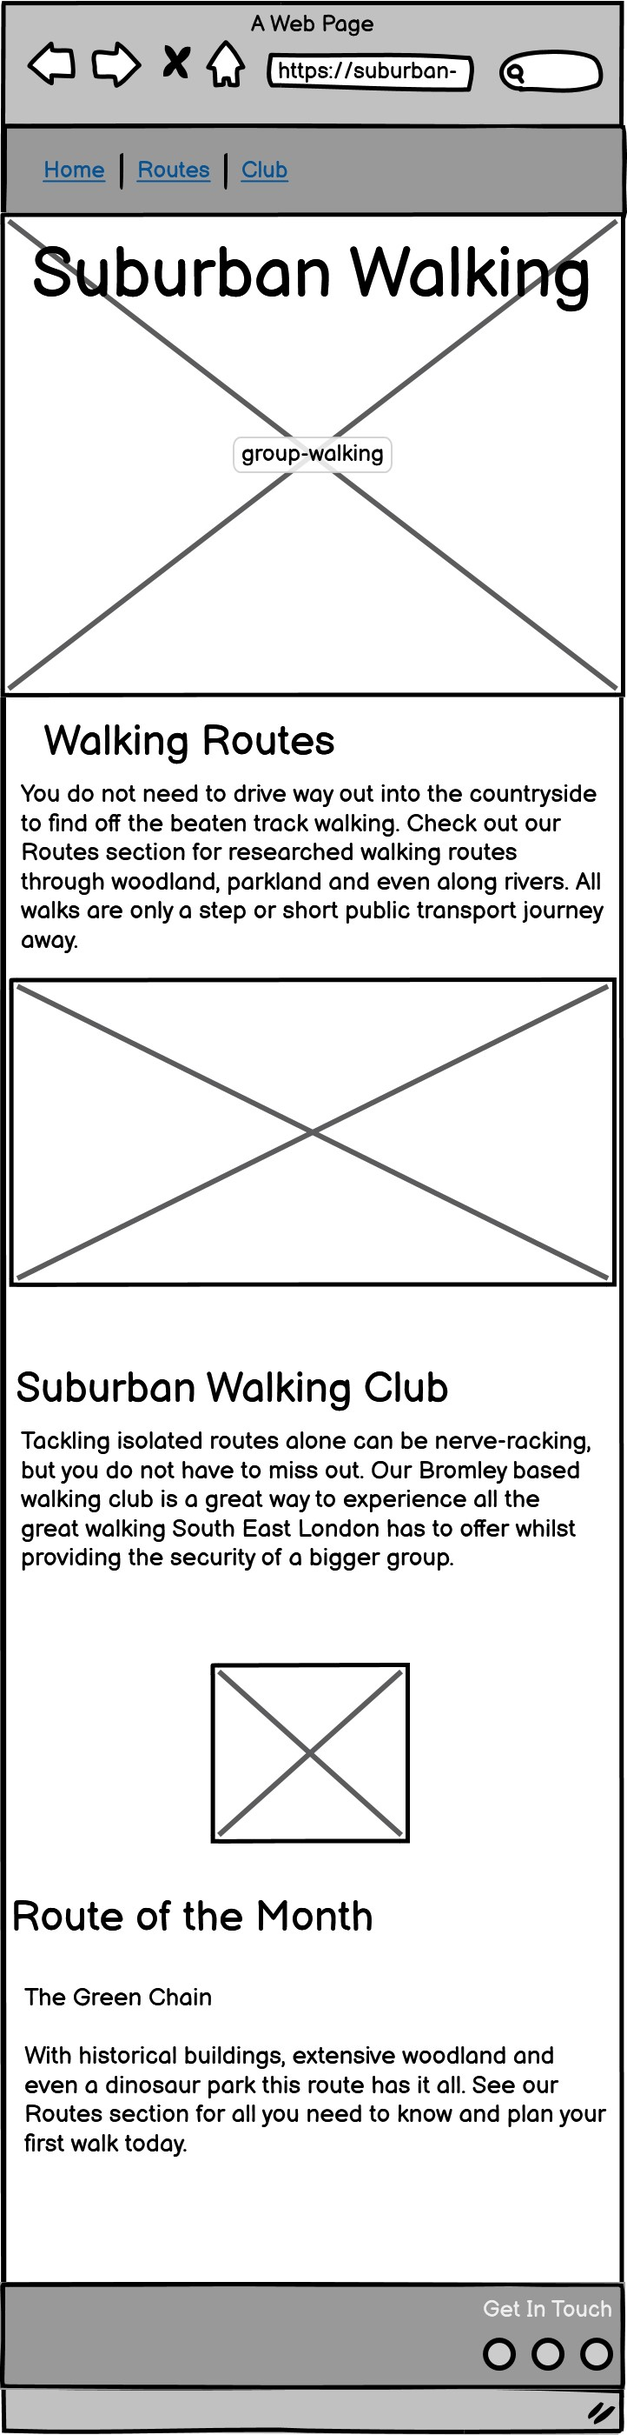
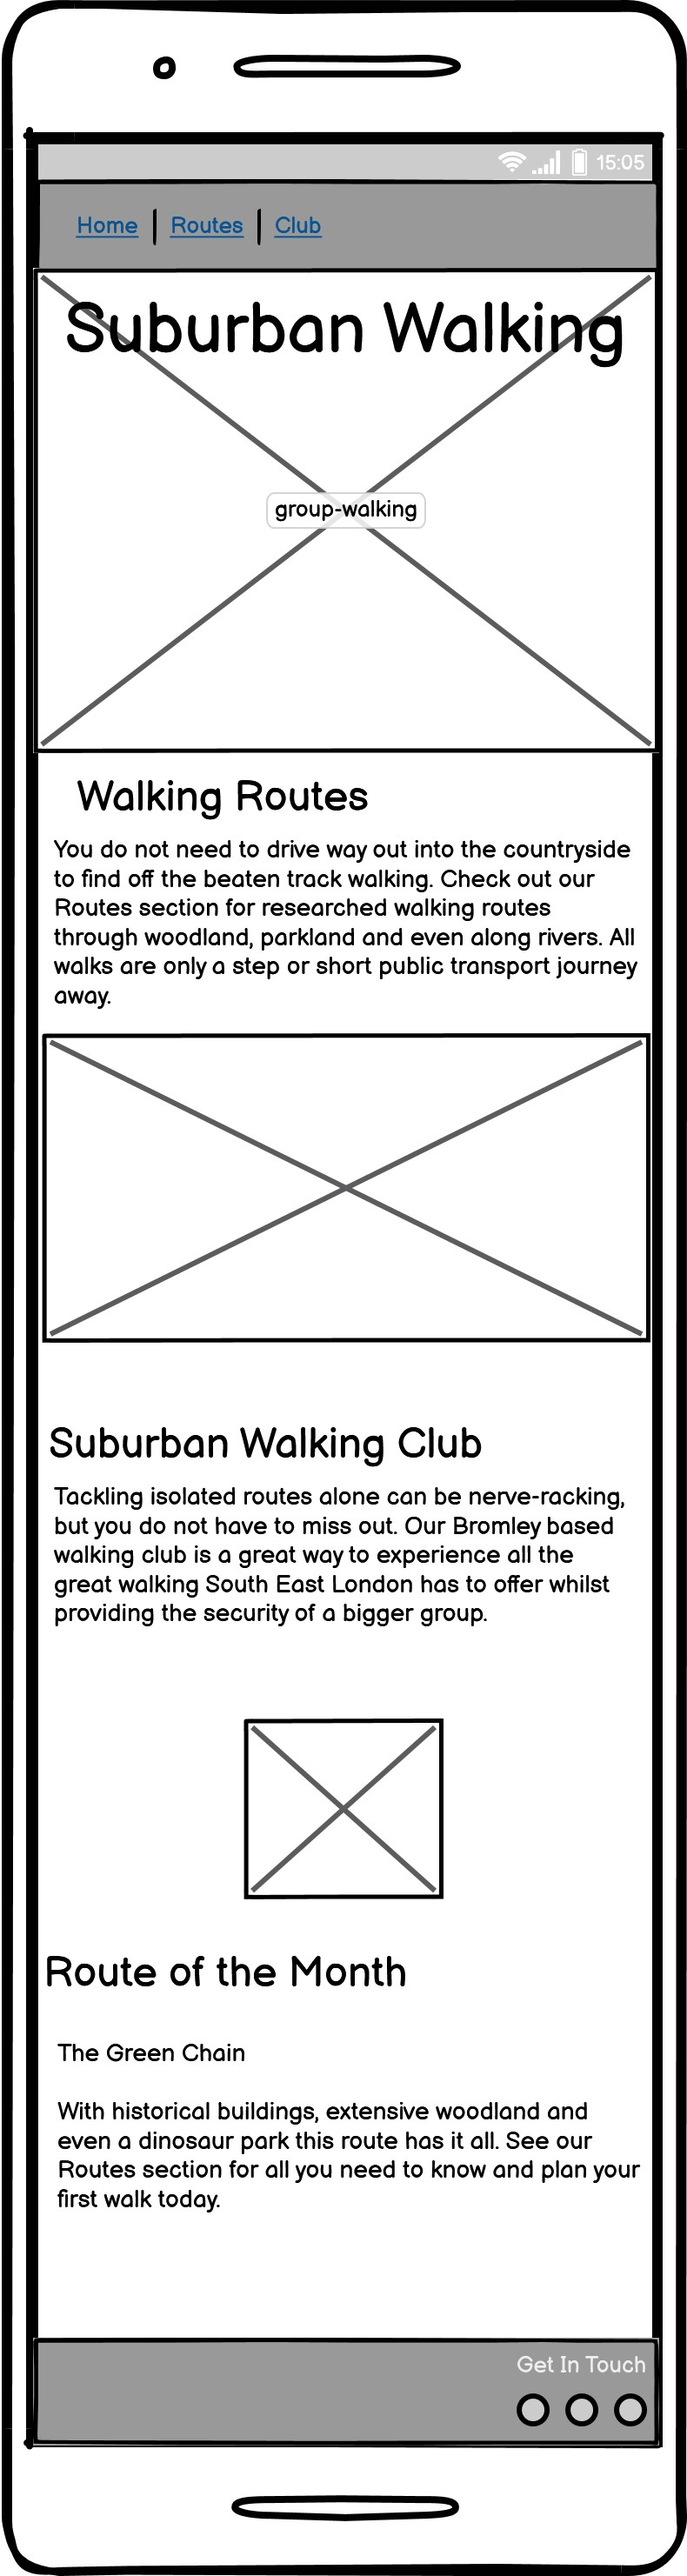
Update wireframes in readme and add more testing comments

diff --git a/README.md b/README.md
@@ -47,7 +47,8 @@ This is a website providing information on walking routes in the South-East Lond
 * **Route Pages**
     * The individual route pages provide information about specific routes.
     * They are laid out in separately titled sections so that the user can easily search out the information they require.
-    * The images provide added context and the embedded map can be used by the user when walking a route.
+    * The images provide added context.
+    * The embedded interactive map provides a suggested route and can be used by the user to navigate whilst out walking.
 
 ![Route Information](assets/screenshots/suburban-walking-individual-route.jpg)
 
@@ -74,7 +75,7 @@ This is a website providing information on walking routes in the South-East Lond
     * The user would be able to edit or combine the plotted routes to create their own custom route.
     * Step by step instructions on how to navigate the route could also be provided.
 
-### User Stories
+### Tested User Stories
   1. As someone new to walking, I want to find clear information about interesting routes with details on how they can be adapted for various abilities.
       * Upon entering the site the user is greeted with a clear homepage with an easily found navigation bar providing quick access to the routes page. The routes page can also be navigated to via the introductory text.
       * The Routes page clearly sets out the routes available and provides easy linked navigation for more information on the selected route.
@@ -105,18 +106,19 @@ This is a website providing information on walking routes in the South-East Lond
 ## Testing
 
 * Continuous testing was carried out throughout the development process with display or functionality errors corrected as they appeared.
-* The header title text was redesigned after it was discovered the initial absolute placement in relation to the hero image resulted in the text disappearing on smaller screens.
+* The header title text was redesigned after it was discovered the initial absolute placement in relation to the hero image resulted in the text disappearing on smaller screens. The heading was updated to be included in the same div as the image.
+* The form textarea element was found to extend outside the form border on smaller screens. This was fixed after consulting [Stack Overflow](https://stackoverflow.com/) by setting the box-sizing to border-box.
 * The site was viewed and tested on the Google Chrome, Microsoft Edge, Internet Explorer and Safari browsers.
 * The site was tested on various screen sizes using the Chrome Developer tools.
     * The inline block style of wider screens, with text displayed alongside images reverts to text below images block style on smaller screens.
-    * Media queries have been added to ensure the site displays well at the transition points between the two styles. Reducing white space where possible.
+    * Media queries have been added to ensure the site displays well at the transition points between the two styles, reducing white space where possible.
 * Friends and family members were asked to review the site on various mobile devices to determine if the site was suitably responsive.
-    * The iframe maps were discovered to extend beyond the screen due to the fixed width in the HTML iframe code and this was updated to a percentage width of the container to be more responsive.
+    * The iframe maps were discovered to extend beyond the screen resulting in scrolling being required. This was dicovered to be due to the fixed width in the HTML iframe code and this was updated to a percentage width of the container to be more responsive.
 
 ### Validator Testing
 
 * HTML
-    * When pasing the individual routes pages through the [W3C validator](https://validator.w3.org/) issues were identified with the iframe maps. These have been solved by moving some of the iframe styling including width and scrolling to the CSS stylesheet.
+    * When pasing the individual routes pages through the [W3C validator](https://validator.w3.org/) issues were identified with the iframe maps. These have been solved by moving some of the iframe styling including the percentage width and scrolling to the CSS stylesheet.
     * No errors are now returned for all pages.
 * CSS
     * No errors have been found when passing through the [Jigsaw validator](https://jigsaw.w3.org/css-validator/)
@@ -144,15 +146,15 @@ The project was deployed to GitHub Pages. The following steps are used to deploy
 * The walking route iframe maps were created using [mapometer](https://gb.mapometer.com/).
 * Instructions on how to make the textarea form input responsive were found [here](https://stackoverflow.com/questions/39068128/how-can-i-make-a-textarea-that-fits-within-the-width-of-the-current-viewport/39068155#:~:text=Set%20a%20max%2Dwidth%20on%20the%20element.&text=Try%20textarea%20%7Bmax%2Dwidth%3A,will%20always%20fit%20your%20display.&text=I%20set%20the%20number%20of,responsive%20to%20the%20screen%20size.).
 * Information about the Green Chain Walk was taken from [Wikipedia](https://en.wikipedia.org/wiki/South_East_London_Green_Chain).
-* Information about the Waterlink Way was taken from [Sustrans](https://www.sustrans.org.uk/find-a-route-on-the-national-cycle-network/waterlink-way)
+* Information about the Waterlink Way was taken from [Sustrans](https://www.sustrans.org.uk/find-a-route-on-the-national-cycle-network/waterlink-way).
 
 ### Media
-* The homepage hero image was taken from [Pexels](https://www.pexels.com/)
+* The homepage hero image was taken from [Pexels](https://www.pexels.com/).
 * The Routes pages hero image was taken by Achim Bongard and found on [Pexels](https://www.pexels.com/).
 * The club page hero image was taken by Bonnie Kittle and found on [Unsplash](https://unsplash.com/).
 * The homepage routes introductory image was taken by Tobi and found on [Pexels](https://www.pexels.com/).
 * The homepage club introductory image was taken by Ashim D'Silva and found on [Unsplash](https://unsplash.com/).
-* All other photos are my own.
+* All other images are my own.
 
 ### Other
 * The wireframes for the project were created using [Balsamiq](https://balsamiq.com/wireframes/desktop/).
